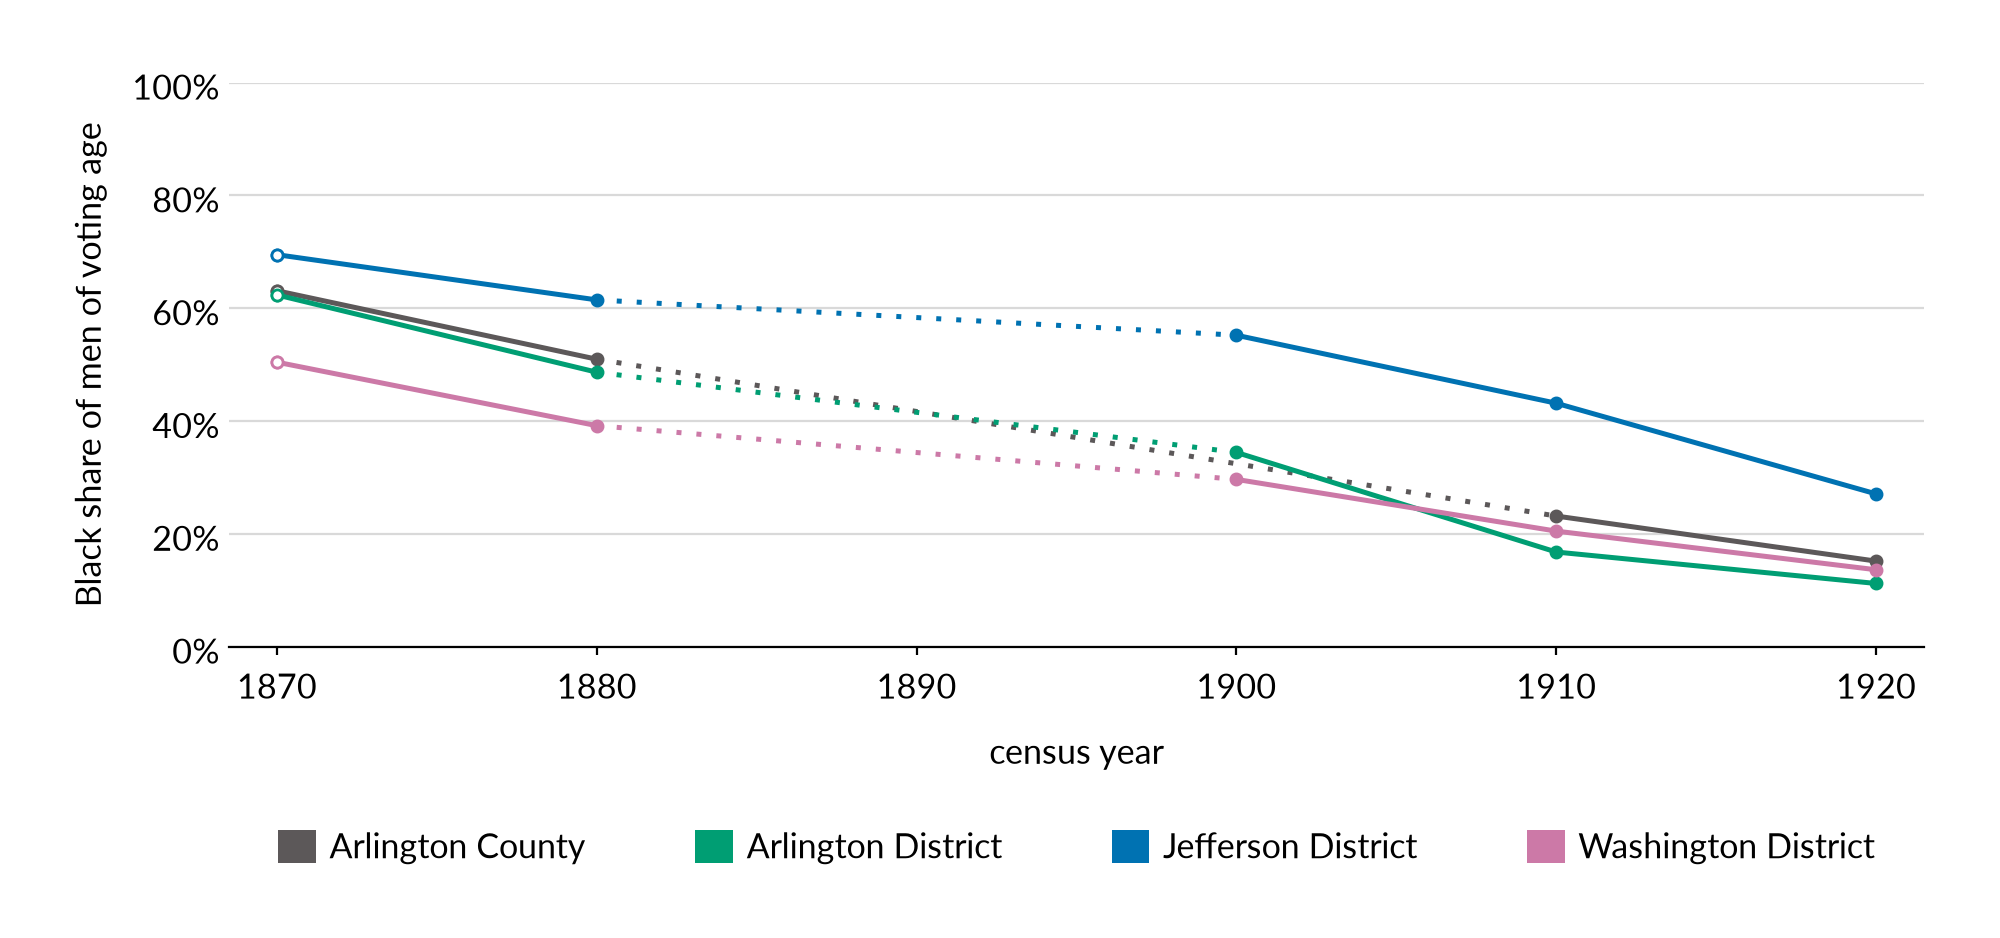
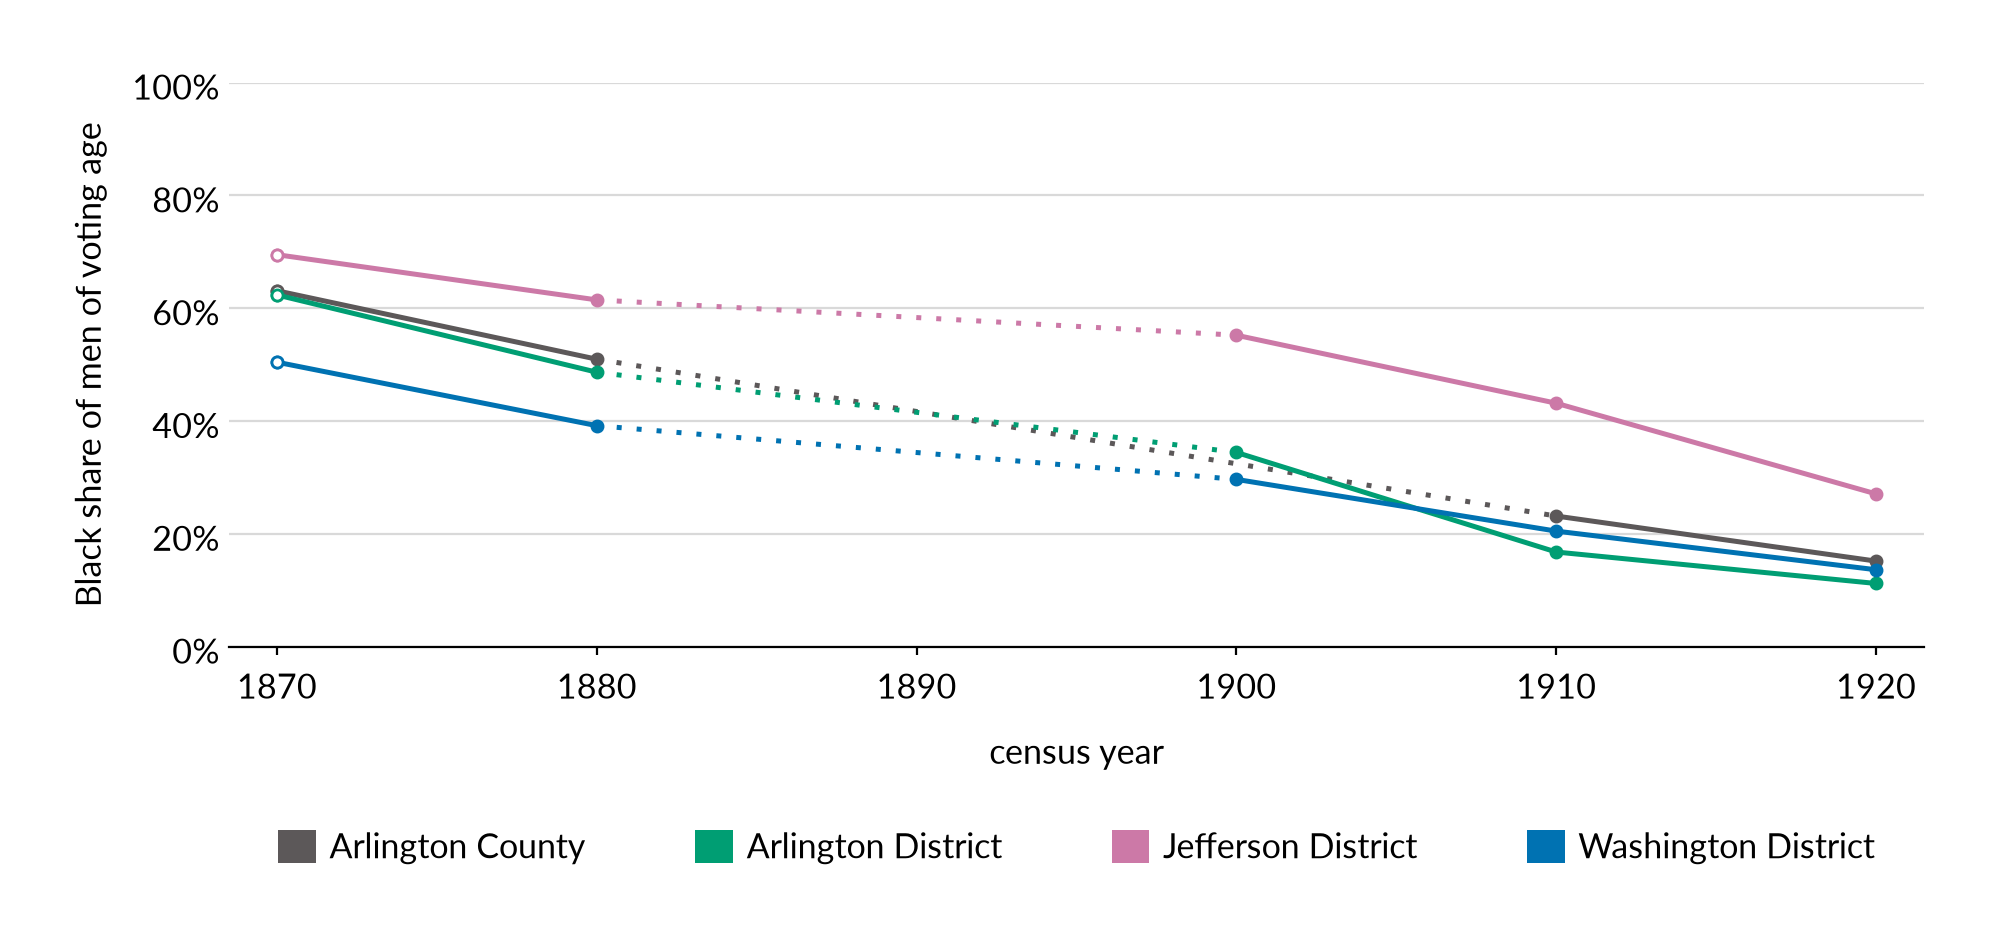
district colours: Jefferson takes reddish purple, the annexed land's hue, and Washington blue

diff --git a/style/style.py b/style/style.py
@@ -127,8 +127,8 @@ RESIDENCE["none"] = ("no location", UNRECORDED)
 # reference neutral the growth and peer figures use. See docs/figures.md.
 DISTRICTS = {
     "Arlington":  ("Arlington District", OKABE_ITO["bluish_green"]),
-    "Jefferson":  ("Jefferson District", OKABE_ITO["blue"]),
-    "Washington": ("Washington District", OKABE_ITO["reddish_purple"]),
+    "Jefferson":  ("Jefferson District", OKABE_ITO["reddish_purple"]),
+    "Washington": ("Washington District", OKABE_ITO["blue"]),
 }
 WHOLE_COUNTY = ("Arlington County", DARK)
 
